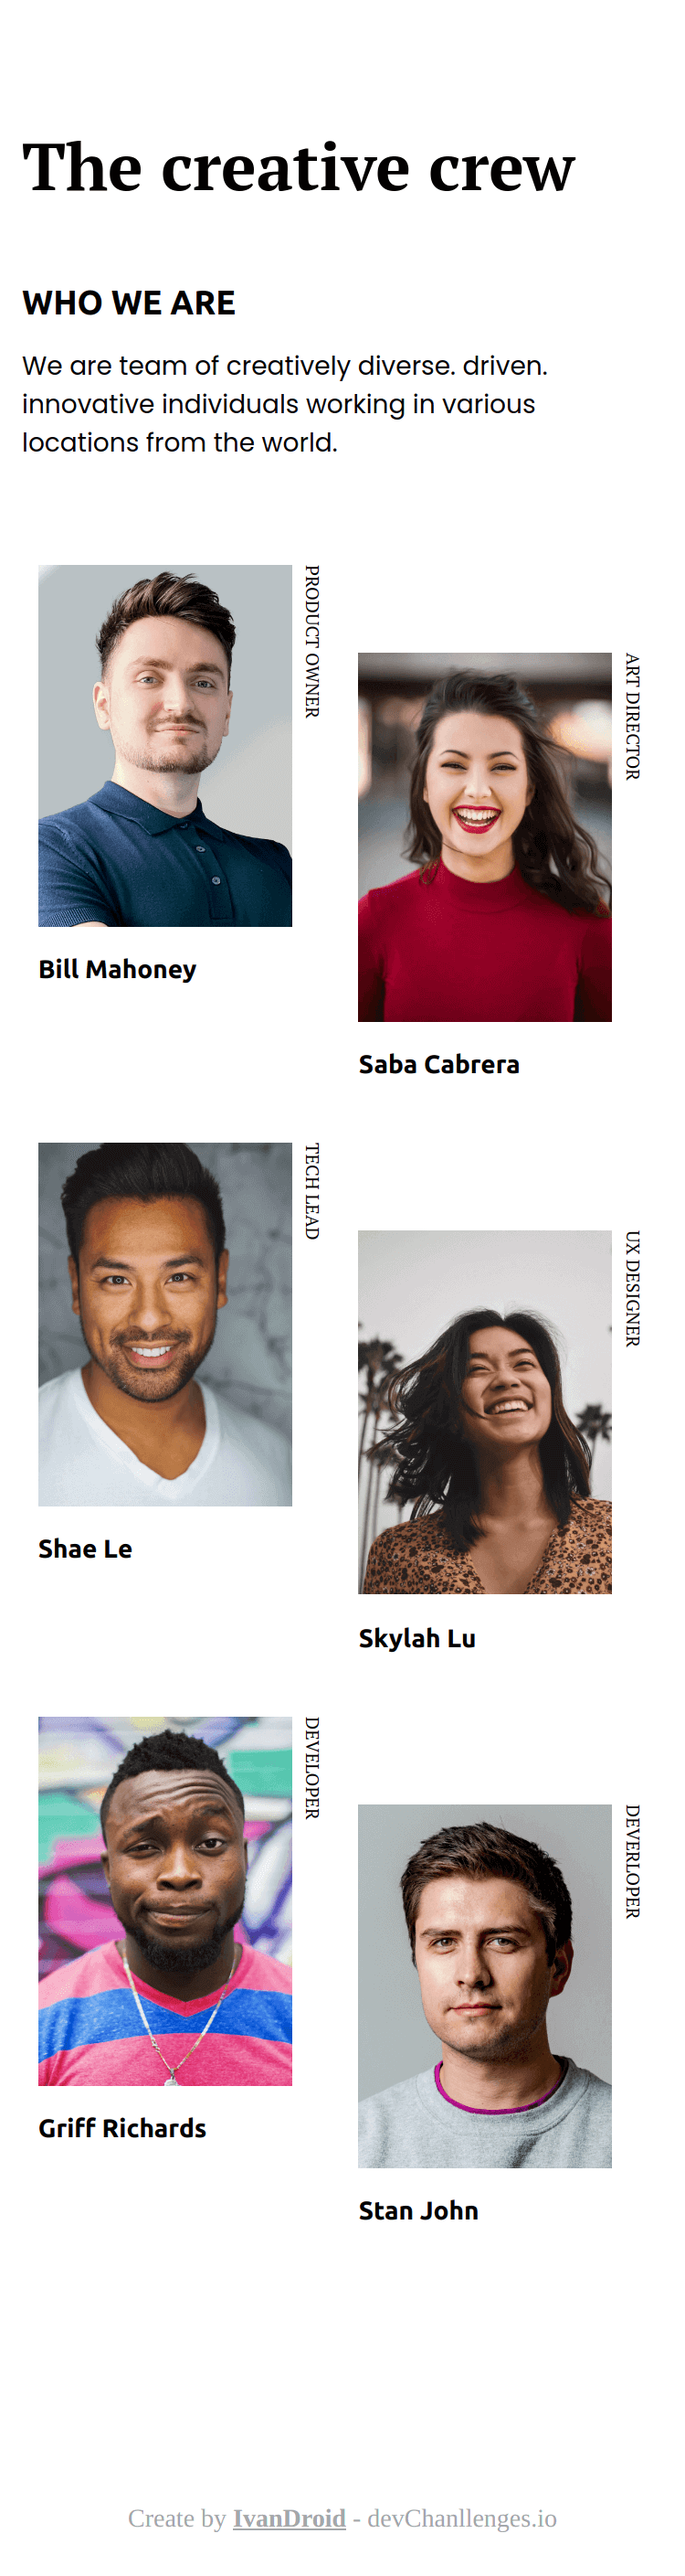
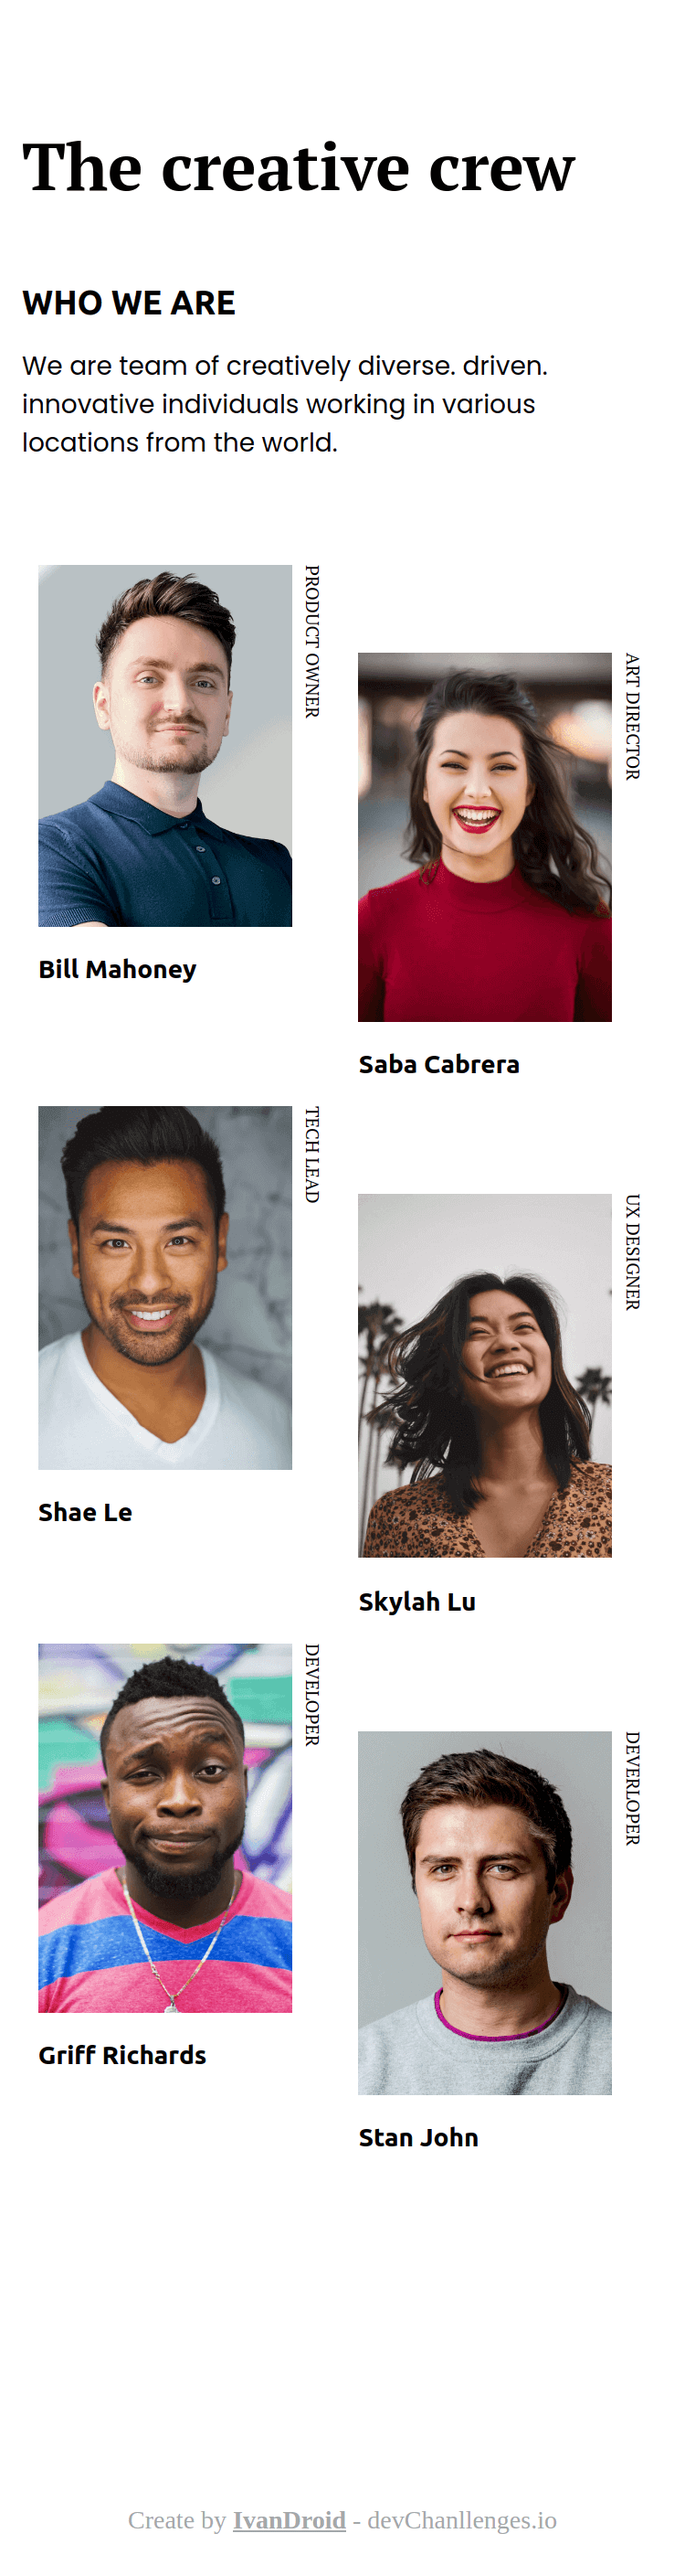
first commit

diff --git a/src/components/section/my-team-page/section1.jsx b/src/components/section/my-team-page/section1.jsx
@@ -22,7 +22,7 @@ export default function Section1() {
                     </p>
                 </div>
             </div>
-            <div className="w-full sm:w-[42rem] md:w-[48rem] lg:w-[60rem] grid grid-cols-2 sm:grid-cols-3 gap-y-8 justify-items-center">
+            <div className="w-full sm:w-[42rem] md:w-[48rem] lg:w-[60rem] grid grid-cols-2 sm:grid-cols-3 gap-y-3 sm:gap-y-8 justify-items-center">
 
                 <CardTeam name={'Bill Mahoney'} photo={photo1} job={'Product owner'} mt={'mt-0'} />
                 <CardTeam name={'Saba Cabrera'} photo={photo2} job={'Art director'} mt={'mt-12 sm:mt-24'} />
